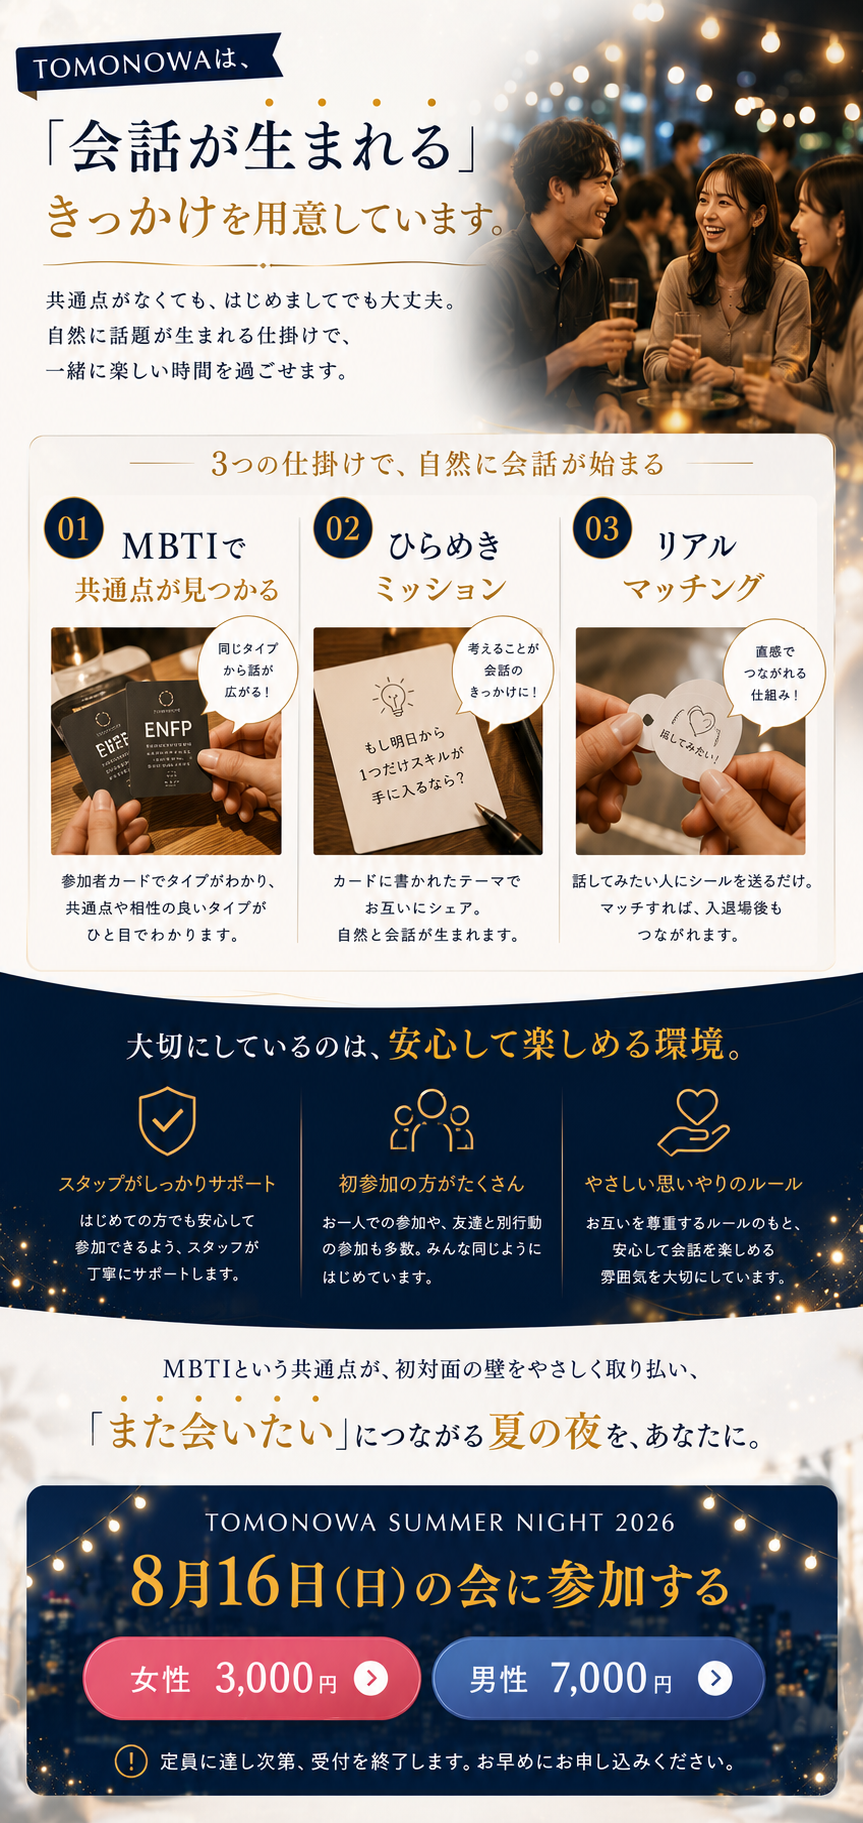
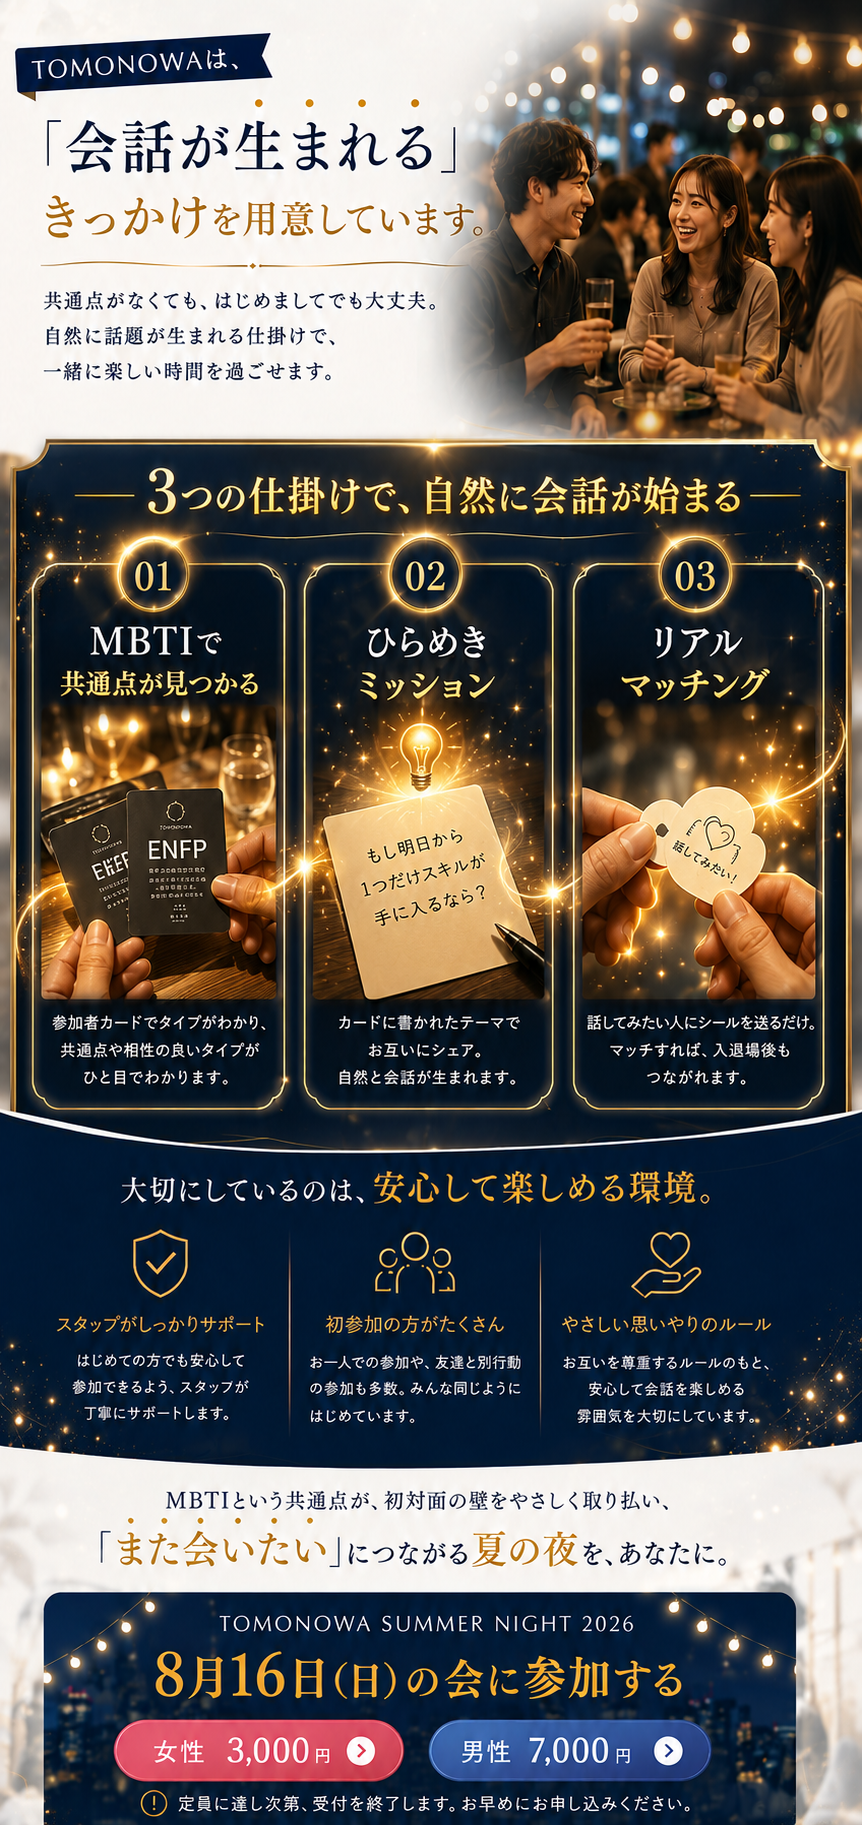
Add files via upload

diff --git a/index.html b/index.html
@@ -26,9 +26,9 @@
       </section>
 
       <section class="visual-section" aria-label="Section 4">
-        <img src="./assets/04.png" alt="友の輪夏祭り Section 4" width="863" height="1823">
-        <a class="cta-hit cta-hit--pricing-women" href="https://forms.gle/XHAqHDa25sUvkw2E8" style="left:7%;right:50.5%;top:88.8%;height:6.3%" aria-label="女性 3,000円で参加申込み"></a>
-        <a class="cta-hit cta-hit--pricing-men" href="https://forms.gle/XHAqHDa25sUvkw2E8" style="left:49.8%;right:10.5%;top:88.8%;height:6.3%" aria-label="男性 7,000円で参加申込み"></a>
+        <img src="./assets/04.png" alt="友の輪夏祭り Section 4" width="862" height="1825">
+        <a class="cta-hit cta-hit--pricing-women" href="https://forms.gle/XHAqHDa25sUvkw2E8" style="left:10%;right:51%;top:92.7%;height:6.3%" aria-label="女性 3,000円で参加申込み"></a>
+        <a class="cta-hit cta-hit--pricing-men" href="https://forms.gle/XHAqHDa25sUvkw2E8" style="left:48.7%;right:15%;top:92.7%;height:6.3%" aria-label="男性 7,000円で参加申込み"></a>
       </section>
 
       <section class="visual-section" aria-label="Section 5">
